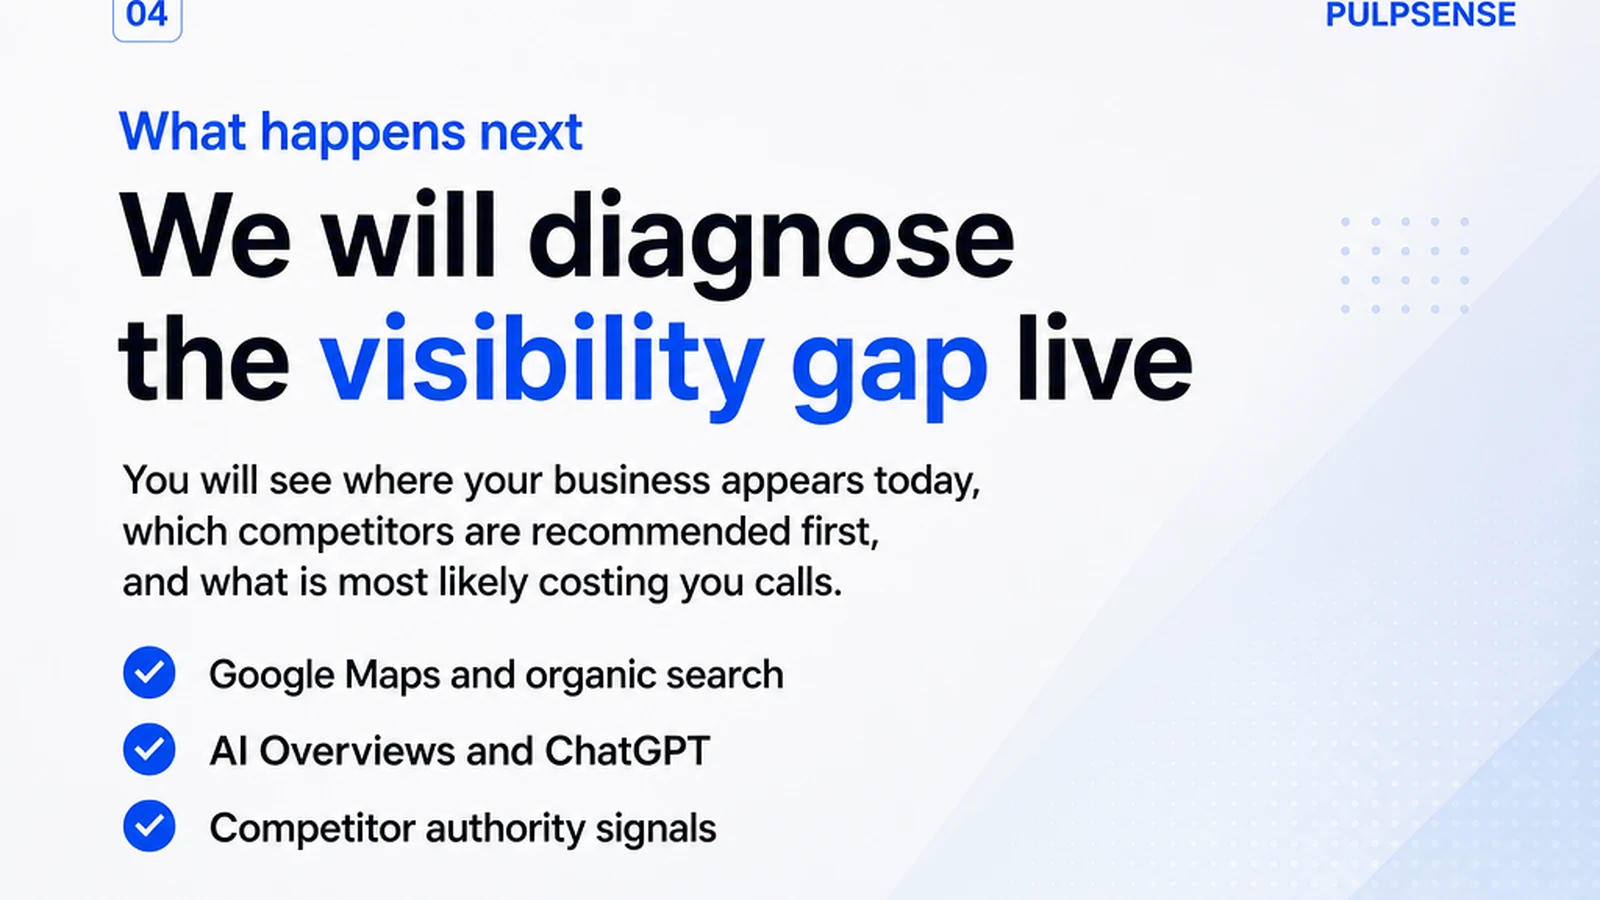
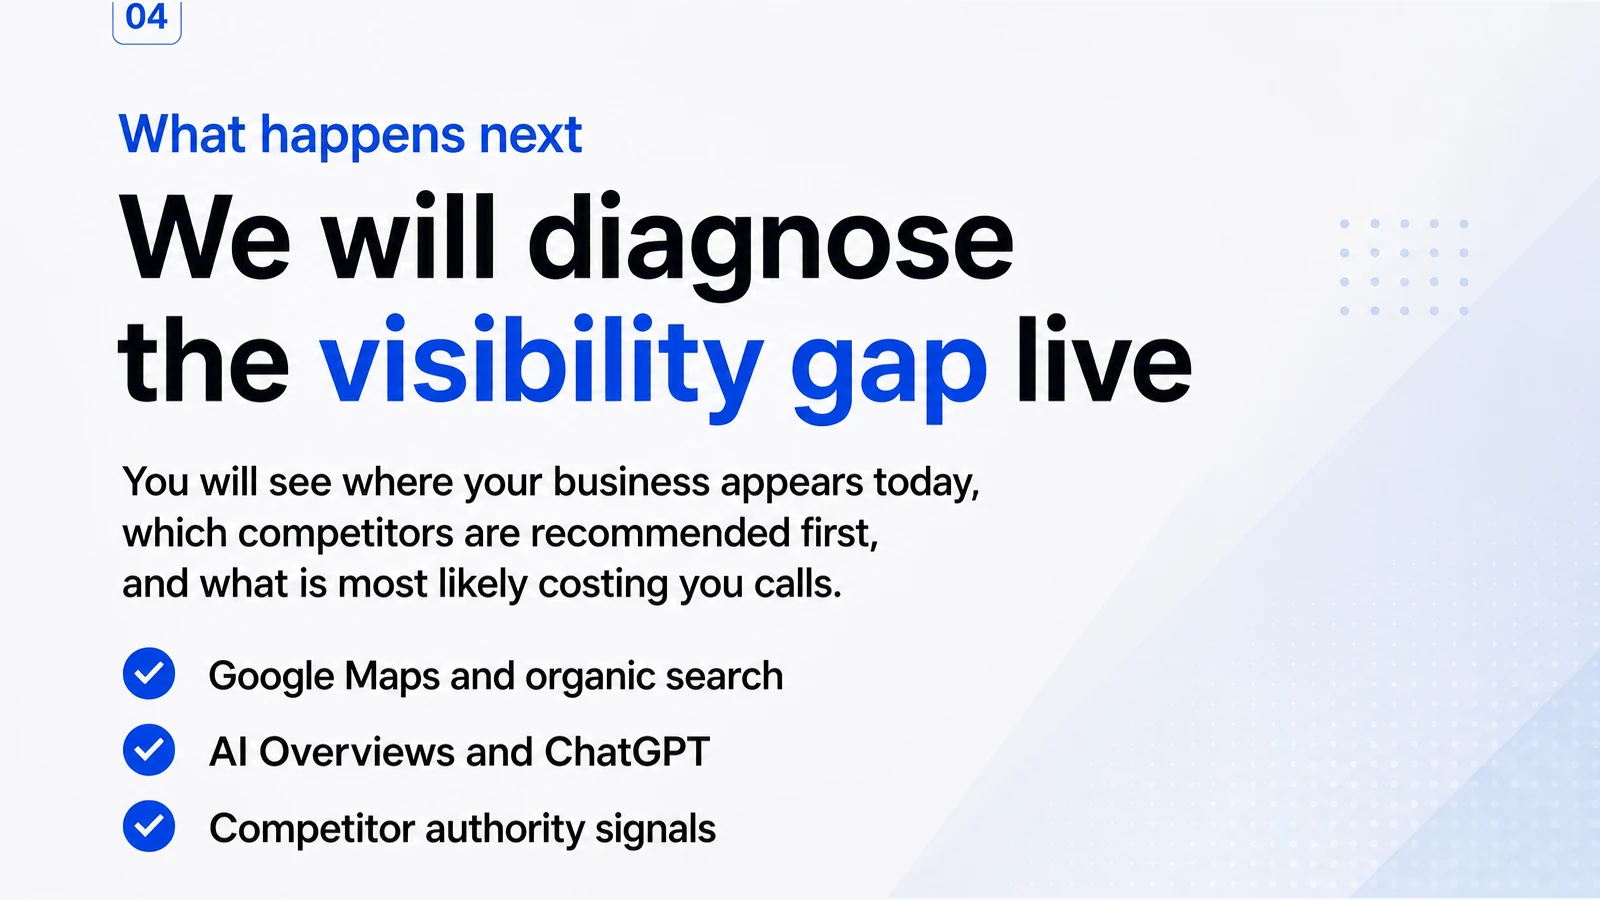
fix(funnels): make thank-you deck brand-neutral

diff --git a/apps/funnels/src/funnels/ai-seo/components/thank-you/ThankYouDeckCarousel.tsx b/apps/funnels/src/funnels/ai-seo/components/thank-you/ThankYouDeckCarousel.tsx
@@ -10,114 +10,32 @@ import {
   type CarouselApi,
 } from "@/components/ui/carousel";
 
-type BriefingSlide = {
-  eyebrow: string;
-  title: string;
-  body: string;
-  points?: readonly string[];
-  accent?: string;
-};
-
-const briefingSlides: readonly BriefingSlide[] = [
-  {
-    eyebrow: "You’re booked",
-    title: "Your Regional Visibility Audit is reserved",
-    body: "Take two minutes to review the next steps and arrive knowing exactly what we will examine together.",
-    accent: "45 new calls in 90 days. Or we work free until you get them.",
-  },
-  {
-    eyebrow: "Step 1",
-    title: "Confirm your calendar invitation",
-    body: "Find the invitation in your inbox or spam folder and click “Yes.” That tells us the time is locked into your calendar.",
-    points: [
-      "Open the calendar invitation",
-      "Click “Yes”",
-      "Keep the meeting link handy",
-    ],
-  },
-  {
-    eyebrow: "If plans change",
-    title: "Reschedule instead of missing the call",
-    body: "Emergencies happen. Reschedule from the link in your invitation so the time can be released and you can choose another slot.",
-  },
-  {
-    eyebrow: "What happens next",
-    title: "We will diagnose the visibility gap live",
-    body: "You will see where your business appears today, which competitors are recommended first, and what is most likely costing you calls.",
-    points: [
-      "Google Maps and organic search",
-      "AI Overviews and ChatGPT",
-      "Competitor authority signals",
-    ],
-  },
-  {
-    eyebrow: "How recommendations work",
-    title: "Google and AI look for clear, consistent authority",
-    body: "Your website is only one source. Search and AI systems cross-check maps, directories, reviews, citations, structured data, and trusted third-party references.",
-  },
-  {
-    eyebrow: "Our process · 1",
-    title: "We benchmark your market",
-    body: "We audit your current position across Google Maps, organic search, AI Overviews, and ChatGPT, then identify the competitors being recommended ahead of you.",
-  },
-  {
-    eyebrow: "Our process · 2",
-    title: "We build your authority foundation",
-    body: "We strengthen the business information, technical structure, regional coverage, service content, citations, profiles, and reputation signals those systems rely on.",
-  },
-  {
-    eyebrow: "Authority ecosystem",
-    title: "Every signal should tell the same story",
-    body: "Consistent information makes it easier for Google and AI to understand what you do, where you operate, and why your business should be trusted.",
-    points: [
-      "Business profiles",
-      "Website and structured data",
-      "Directories and citations",
-      "Reviews and third-party proof",
-    ],
-  },
-  {
-    eyebrow: "Reputation",
-    title: "We make genuine customer trust easier to see",
-    body: "We help build a compliant reputation system that consistently requests honest feedback and strengthens the proof surrounding your business.",
-  },
-  {
-    eyebrow: "Our process · 3",
-    title: "We expand and maintain visibility",
-    body: "We strengthen weak markets and service lines, monitor movement, and keep improving your presence as the competitive landscape changes.",
-  },
-  {
-    eyebrow: "Clear reporting",
-    title: "You will know what changed and what comes next",
-    body: "We establish the baseline and reporting process during onboarding, then review visibility, completed work, priorities, and call growth against that baseline.",
-  },
-  {
-    eyebrow: "Your involvement",
-    title: "We handle the implementation",
-    body: "Your team provides the access and business context we need. We build and manage the system, then align with you during focused review calls.",
-  },
-  {
-    eyebrow: "Already working with an agency?",
-    title: "The audit still gives you a useful benchmark",
-    body: "We can complement existing SEO work by examining AI recommendations, business profiles, citations, reputation signals, and regional authority gaps.",
-  },
-  {
-    eyebrow: "The guarantee",
-    title: "45 additional calls in 90 days",
-    body: "If you do not receive the agreed result, we continue working at no management fee until you do. We will explain qualification, baseline, and measurement on the call.",
-  },
-  {
-    eyebrow: "Come prepared",
-    title: "Bring the markets and services that matter most",
-    body: "Know your priority locations, highest-value services, current marketing partners, and any visibility or call-tracking questions you want us to investigate.",
-  },
-  {
-    eyebrow: "That’s it",
-    title: "We’ll see you on the call",
-    body: "Confirm the invitation, keep the meeting link handy, and arrive ready to see how your business is represented across Google and AI.",
-    accent: "One business per service category, per market.",
-  },
+const slideDescriptions = [
+  "Your Regional Visibility Audit is reserved. Review the next steps and the guarantee of 45 new calls in 90 days, or work continues free until the business gets them.",
+  "Confirm the calendar invitation by opening it, clicking Yes, and keeping the meeting link handy.",
+  "If plans change, reschedule from the invitation instead of missing the call.",
+  "The live audit diagnoses visibility across Google Maps, organic search, AI Overviews, ChatGPT, and competitor authority signals.",
+  "Google and AI cross-check websites, maps, directories, reviews, citations, structured data, and trusted third-party references for consistent authority.",
+  "The market is benchmarked across Google Maps, organic search, AI Overviews, and ChatGPT to identify competitors recommended first.",
+  "The authority foundation is built across business information, technical structure, regional coverage, service content, citations, profiles, and reputation.",
+  "Business profiles, website data, directories, citations, reviews, and third-party proof should consistently explain what the business does and where it operates.",
+  "A compliant reputation system requests honest customer feedback and makes genuine trust easier to see.",
+  "Visibility expands and is maintained across weak markets and service lines as the competitive landscape changes.",
+  "Reporting establishes a baseline and reviews visibility, completed work, priorities, and call growth.",
+  "The client provides access and business context while the implementation and focused review calls are handled for them.",
+  "The audit can complement an existing agency by benchmarking AI recommendations, profiles, citations, reputation, and regional authority gaps.",
+  "The guarantee is 45 additional calls in 90 days, or work continues at no management fee until the agreed result is reached.",
+  "Prepare priority locations, highest-value services, current marketing partners, and visibility or call-tracking questions for the audit.",
+  "Confirm the invitation, keep the meeting link handy, and arrive ready to review Google and AI visibility. One business per service category, per market.",
 ] as const;
+
+const slides = slideDescriptions.map((description, index) => {
+  const number = index + 1;
+  return {
+    image: `/ai-seo/thank-you-deck/slide-${String(number).padStart(2, "0")}.webp`,
+    alt: `Briefing slide ${number} of ${slideDescriptions.length}: ${description}`,
+  };
+});
 
 export function ThankYouDeckCarousel() {
   const [activeIndex, setActiveIndex] = useState(0);
@@ -151,40 +69,20 @@ export function ThankYouDeckCarousel() {
         setApi={setApi}
       >
         <CarouselContent className="pr-ty-deck-content">
-          {briefingSlides.map((briefingSlide, index) => (
-            <CarouselItem key={briefingSlide.title} className="pr-ty-deck-item">
+          {slides.map((slide, index) => (
+            <CarouselItem key={slide.image} className="pr-ty-deck-item">
               <div className="pr-ty-deck-stage" onClick={handleSlideTap}>
                 <span className="pr-ty-deck-count">
-                  {index + 1} / {briefingSlides.length}
+                  {index + 1} / {slides.length}
                 </span>
-                <div
-                  className="pr-ty-deck-grid"
-                  aria-live={index === activeIndex ? "polite" : undefined}
-                >
-                  <div className="pr-ty-deck-copy">
-                    <p className="pr-ty-deck-eyebrow">
-                      {briefingSlide.eyebrow}
-                    </p>
-                    <h2>{briefingSlide.title}</h2>
-                    <p className="pr-ty-deck-body">{briefingSlide.body}</p>
-                    {briefingSlide.points ? (
-                      <ul className="pr-ty-deck-points">
-                        {briefingSlide.points.map((point) => (
-                          <li key={point}>{point}</li>
-                        ))}
-                      </ul>
-                    ) : null}
-                    {briefingSlide.accent ? (
-                      <p className="pr-ty-deck-accent">
-                        {briefingSlide.accent}
-                      </p>
-                    ) : null}
-                  </div>
-                  <div className="pr-ty-deck-mark" aria-hidden="true">
-                    <span>{String(index + 1).padStart(2, "0")}</span>
-                    <small>PULPSENSE</small>
-                  </div>
-                </div>
+                <img
+                  className="pr-ty-deck-image"
+                  src={slide.image}
+                  alt={slide.alt}
+                  width="1600"
+                  height="900"
+                  draggable="false"
+                />
                 {index === 0 ? (
                   <span className="pr-ty-deck-tap-hint" aria-hidden="true">
                     <img src="/ai-seo/images/tap-mouse.svg" alt="" />
@@ -198,6 +96,24 @@ export function ThankYouDeckCarousel() {
         <CarouselNext className="pr-ty-deck-arrow" />
       </Carousel>
 
+      <div className="pr-ty-deck-controls">
+        <p className="pr-ty-deck-progress" aria-live="polite">
+          {activeIndex + 1} / {slides.length}
+        </p>
+        <div className="pr-ty-deck-dots" aria-label="Choose a briefing slide">
+          {slides.map((slide, index) => (
+            <button
+              key={slide.image}
+              className="pr-ty-deck-dot"
+              data-active={index === activeIndex ? "true" : "false"}
+              type="button"
+              aria-label={`Go to briefing slide ${index + 1}`}
+              aria-current={index === activeIndex ? "true" : undefined}
+              onClick={() => api?.scrollTo(index)}
+            />
+          ))}
+        </div>
+      </div>
       <p className="pr-ty-deck-hint">Swipe or tap to continue</p>
     </section>
   );

diff --git a/apps/funnels/src/funnels/ai-seo/components/thank-you/ThankYouDeckCarousel.test.ts b/apps/funnels/src/funnels/ai-seo/components/thank-you/ThankYouDeckCarousel.test.ts
@@ -20,39 +20,32 @@ const primitiveSource = readFileSync(
 );
 
 describe("AI SEO thank-you briefing deck", () => {
-  it("replaces the outdated confirmation video with the native deck", () => {
+  it("replaces the outdated confirmation video with the AI image deck", () => {
     expect(heroSource).toContain("ThankYouDeckCarousel");
     expect(heroSource).not.toContain("WistiaPlayer");
     expect(heroSource).not.toContain("8py8vigtf1");
-    expect(heroSource).not.toContain("pr-bar");
+    expect(carouselSource).toContain("/ai-seo/thank-you-deck/slide-");
+    expect(carouselSource).toContain("slideDescriptions.map");
+    expect(carouselSource).not.toContain("briefingSlides");
   });
 
-  it("covers call preparation and the approved Growth Platform delivery model", () => {
-    expect(carouselSource).toContain("Confirm your calendar invitation");
+  it("covers call preparation and the approved delivery model", () => {
+    expect(carouselSource).toContain("Confirm the calendar invitation");
     expect(carouselSource).toContain(
-      "Reschedule from the link in your invitation",
+      "reschedule from the invitation instead of missing the call",
     );
-    expect(carouselSource).toContain("We benchmark your market");
-    expect(carouselSource).toContain("We build your authority foundation");
-    expect(carouselSource).toContain("We expand and maintain visibility");
+    expect(carouselSource).toContain("The market is benchmarked");
+    expect(carouselSource).toContain("The authority foundation is built");
+    expect(carouselSource).toContain("Visibility expands and is maintained");
     expect(carouselSource).toContain("45 additional calls in 90 days");
   });
 
-  it("does not carry Lead Oracle pricing, trial, contracts, or review gating into PulpSense", () => {
-    expect(carouselSource).not.toMatch(/Lead Oracle|\$297|7-day trial/i);
+  it("keeps the briefing slides brand-neutral and excludes unsupported terms", () => {
+    expect(carouselSource).not.toMatch(
+      /PulpSense|Lead Oracle|\$297|7-day trial/i,
+    );
     expect(carouselSource).not.toMatch(/month-to-month|cancel anytime/i);
     expect(carouselSource).not.toMatch(/block one|block 1|one-star|two-star/i);
-  });
-
-  it("retains the useful calendar confirmation screenshot", () => {
-    const calendarSource = readFileSync(
-      new URL("./CalendarConfirmationStep.astro", import.meta.url),
-      "utf8",
-    );
-
-    expect(calendarSource).toContain("calendar-confirmation.webp");
-    expect(calendarSource).toContain("pr-inbox-guide");
-    expect(calendarSource).not.toContain("pr-calendar-preview");
   });
 
   it("preserves the true 16:9 image frame and compliant dot targets", () => {
@@ -72,14 +65,16 @@ describe("AI SEO thank-you briefing deck", () => {
     ).filter((file) => file.startsWith("slide-") && file.endsWith(".webp"));
 
     expect(deckFiles).toHaveLength(16);
-    expect(carouselSource).toContain("briefingSlides.map");
-    expect(carouselSource.match(/eyebrow: ["“]/g)).toHaveLength(16);
+    expect(carouselSource.match(/^  ".+",$/gm)).toHaveLength(16);
+    expect(carouselSource).toContain('width="1600"');
+    expect(carouselSource).toContain('height="900"');
   });
 
-  it("supports focused keyboard, swipe, and direct slide navigation", () => {
+  it("supports keyboard, swipe, tap zones, and direct slide navigation", () => {
     expect(carouselSource).toContain('from "@/components/ui/carousel"');
     expect(carouselSource).toContain("CarouselPrevious");
     expect(carouselSource).toContain("CarouselNext");
+    expect(carouselSource).toContain("handleSlideTap");
     expect(primitiveSource).toContain("tabIndex={0}");
     expect(primitiveSource).toContain("onKeyDown={handleKeyDown}");
     expect(primitiveSource).toContain('aria-label="Previous slide"');
